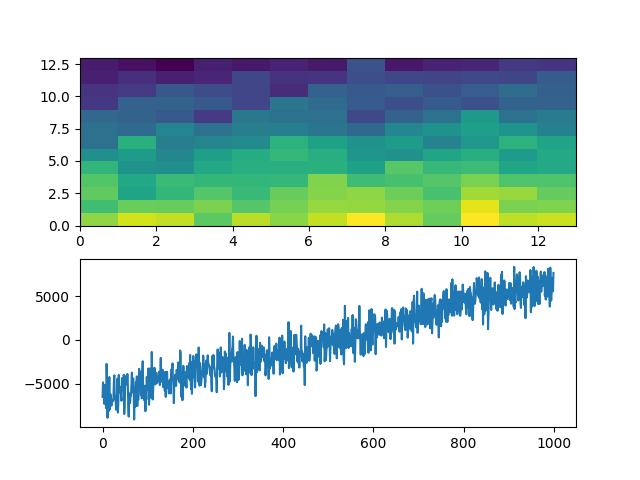
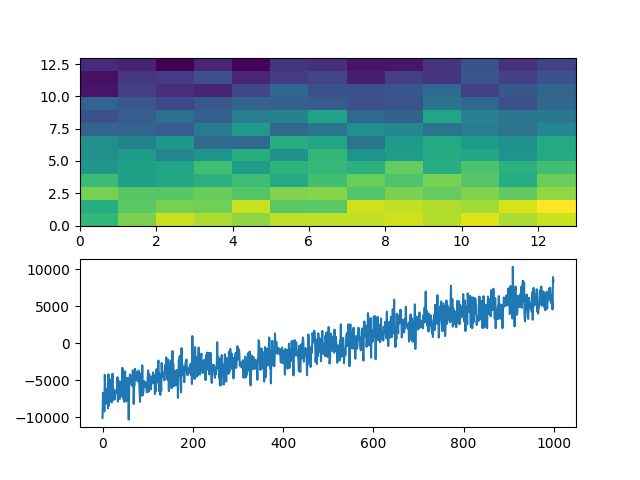
Updates through to Lab 2 task 3

diff --git a/Lab_2/PCA3.py b/Lab_2/PCA3.py
@@ -1,22 +1,45 @@
 
 import numpy as np
 import matplotlib.pyplot as plt
-import glob
 import pandas as pd
 
-from library2 import Principal_Component_Analysis
+from read_station_data import datetime_array_create
+from PCA_artificial_data import Principal_Component_Analysis
 from PCA2 import load_all_data
 
+#z = np.ma.masked_values([1.0, 1.e20, 3.0, 4.0], 1.e20)
+#val = [0, 0, 5, 6, 5]
+#val_i = np.where(val == -99.0, True , False)
+#print(f'joe mama{val_i}')
+
+def invalid_data_stripper(tt_df):
+    """takes a dataframe, slices to dates between Jan 1990 and Dec 2005 then drops columns with invalid data(-99.0)
+    Input: dataframe with datatime indexes and filename columns
+    Returns: shortened dataframe with bad data removed
+    """
+    temperature_time_stripped = tt_df.loc['1990-01-01':'2005-12-01']
+    for column in temperature_time_stripped.columns:
+        if any(temperature_time_stripped[column].isin([-99.0])):
+            temperature_time_stripped = temperature_time_stripped.drop(columns = column)
+    return temperature_time_stripped
+
 def main():
-    "Does somtehing"
-    lat,lon, tt_df= load_all_data()
-    [eigen_values,eigen_vectors,anomaly,covariance]=Principal_Component_Analysis(tt_df.values)
-    PC=np.matmul(anomaly,eigen_vectors)
-    for j in [-1,-2,-3]:     # Plot the last three values in the PCA analysis - note ordering
-        plt.figure()
-        plt.subplot(2,1,1)
-        print(np.shape(eigen_vectors[:,j]))
-        plt.pcolor(np.reshape(eigen_vectors[:,j],(13,13)))  # Reshapes the eigenvectors to be plotted
-        plt.subplot(2,1,2)
-        plt.plot(PC[:,j])
-        plt.savefig('PCA2_Test_%01d.png' %j)  # ensures that ordering is nice
+    "Does something"
+    tt_df= load_all_data()
+    temperature_time_good = invalid_data_stripper(tt_df)
+
+    val_i = np.any(np.where(temperature_time_good == -99.0, True , False))
+    print(f'Invalid entries: {val_i}')    #check for an invalid entries
+
+    latitude, longitude, station = zip(*temperature_time_good.columns)
+    latitude_array, longitude_array, station_array = np. asarray(latitude), np. asarray(longitude), np. asarray(station)
+    temperature_array = temperature_time_good.to_numpy()    # Converts all pandas info to numyp arrays
+
+    np.savez(
+        "good_station_data",
+        latitude_array=latitude_array,
+        longitude_array=longitude_array,
+        station_array=station_array,
+        temperature_array=temperature_array)    # Saves arrays with names
+    
+main()

diff --git a/Lab_2/PCA2.py b/Lab_2/PCA2.py
@@ -12,16 +12,12 @@ from read_station_data import read_station_data_file
 
 def load_all_data():
     "Loads all data in the dir Station_data into arrays lat,lon, and date and temp into a dataframe and returns them"
-    lat = []        # Initializing vars
-    lon = []
     start_date  = None
     end_date  = None
     time_ntemp_df = pd.DataFrame()
 
-    for path in glob.glob("Station_data/*/*"):
+    for path in glob.glob("Station_data/*/*")[:40]:
         cache = read_station_data_file(path)
-        lat.append(cache[0])
-        lon.append(cache[1])
         dates = cache[2]
         values = cache[3]
 
@@ -30,19 +26,20 @@ def load_all_data():
         if end_date  is None or max(dates) > end_date :
             end_date  = max(dates)
 
-        cache_df = pd.DataFrame(data=values, index=dates, columns=[path])   # Create a temporary dataframe for each file and interpolate missing values
+        meta_data_tuples = [(cache[0], cache[1], path)]     # Inserting latitude and longitude data into dataframe
+        column_data = pd.MultiIndex.from_tuples(meta_data_tuples, names=["Latitude", "Longitude", "Station"])
+
+        cache_df = pd.DataFrame(data=values, index=dates, columns=column_data)   # Create a temporary dataframe for each file and interpolate missing values
         cache_date_range = pd.date_range(start=start_date, end=end_date, freq='MS')
         cache_df = cache_df.reindex(cache_date_range)
-        cache_df.interpolate(method='linear', axis=0, inplace=True)
 
         time_ntemp_df = pd.concat([time_ntemp_df, cache_df], axis=1) # Merge the temporary dataframe into the main dataframe
-    return lat,lon, time_ntemp_df
+
+    return time_ntemp_df
 
 def main():
     "Do the thingy"
-    lat,lon, tt_df= load_all_data() # Overdone cos I misread the question but it works
-    #print(f'Latitude = {lat}')
-    #print(f'Longitude = {lon}')
-    #print(f'Temperature dataframe = {tt_df}')
+    tt_df= load_all_data() # Overdone cos I misread the question but it works
+    #print(f'Temperature dataframe:\n{tt_df}')
 
 main()

diff --git a/library.py b/library.py
@@ -68,6 +68,20 @@ def sig_dif_means(filename1, filename2):
     plt.show()
     """
     
+def Principal_Component_Analysis(data):
+    """Finds the principal components of some data
+    Normalizes, calculates covariance, uses numpy functions to find eigenvalues and eigenvectors then sorts by size of eigenvalue
+    
+    Input: data
+    Returns: [eigen_values,eigen_vectors,anomaly,covariance] """
+    anomaly = np.empty(np.shape(data))
+    for (row, col), val in np.ndenumerate(data):
+        anomaly[:,col] = data[:,col] - np.mean(data[:,col])
+    covariance = np.matmul(np.transpose(anomaly), anomaly)/(len(anomaly)-1)
+    unord_eigen_values, unord_eigen_vectors = np.linalg.eigh(covariance)
+    sort_mask = np.argsort(unord_eigen_values)
+    eigen_values,eigen_vectors = unord_eigen_values[sort_mask], unord_eigen_vectors[:,sort_mask]
+    return [eigen_values,eigen_vectors,anomaly,covariance]
 """
 def model_func_res(params, y_obs, x):
     "Takes data and computes the residual sum of squares with relation to a specified model, template"
